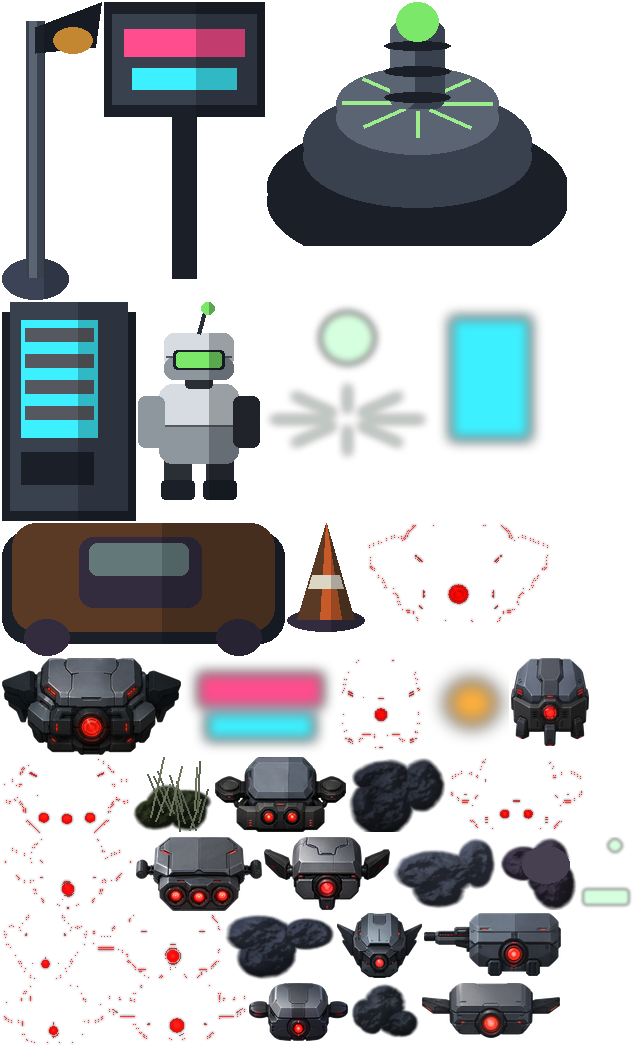
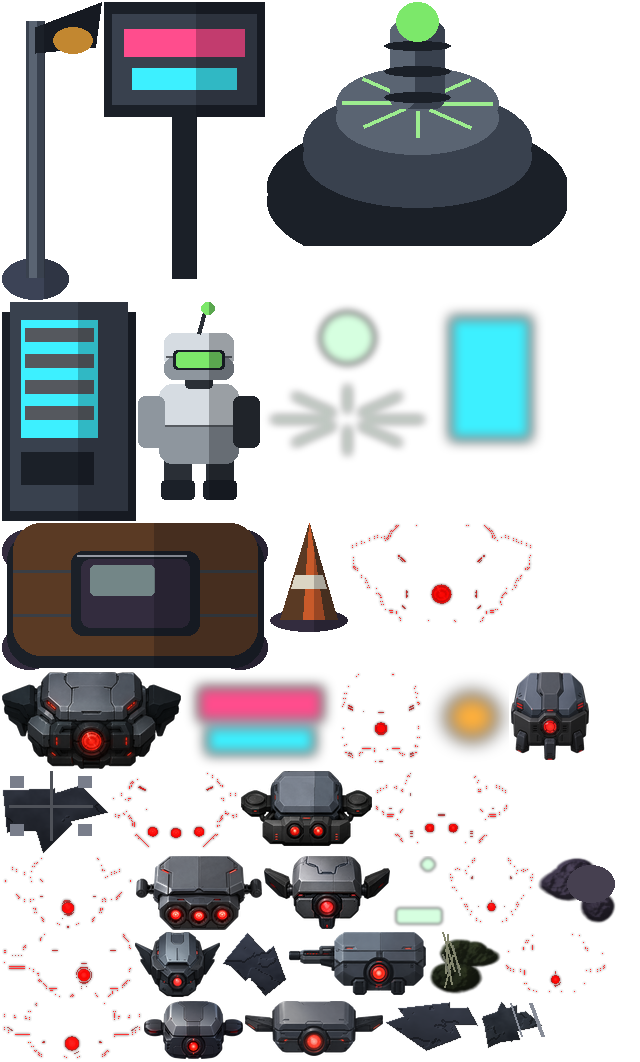
Zone 2 fidelity pass: angular props, sparse weed, panel patchwork
Addresses the "still reads like Miller Field" feedback on the live motel.
The root cause was that every motel prop ran through blob_mask — the same
organic-lobe generator that makes zone 1's ferns and shrubs — so built
debris came out as soft domed mounds.

- Added shard_mask + lit_angular to family.py: fracture-edged silhouettes
  with quantised facet shading and a crisp alpha edge. Rubble, crate and
  scrap now read as broken/built objects (hard corners, panel seams, bent
  fold lines). blob_mask is untouched, so zone 1 is unaffected; tire and
  weed keep the organic path since they are genuinely round/soft.

- Weed dialed back hard: removed the duplicate entry that made it the most
  common skirt prop, desaturated it well off signal-green, fewer/shorter
  blades. It now reads as crack-growth, not lawn.

- Wall cap is now a patchwork, not wallpaper: each panel gets its own
  brightness and its own on/off power state, so only ~40% carry the cyan
  trim. Grid kept (user likes it) but it reads as individual units. Steel
  ramp tuned so walls sit just below floor value without crushing the 65%
  of the frame that is wall.

- Rebuilt the car landmark: wheel wells, body panel seams, a recessed
  cabin with glass depth, roof-rail highlight; scaled down 0.36 -> 0.30.

Brightness verified unchanged from the loved build by measuring source
tile luma (z2 ground 49.1 vs z1 35.9) rather than trusting downscaled
captures — z2 renders brighter than the zone 1 already shipped.

diff --git a/src/game/topdown/TdBiomes.ts b/src/game/topdown/TdBiomes.ts
@@ -190,8 +190,9 @@ const MOTEL: TdBiomeDef = {
   // SKIRT IS GROUND COVER, not objects. dressEdges lays 2-4 of these on every
   // edge tile to bury the straight room boundaries, so anything with a strong
   // recognisable silhouette (a traffic cone) turns the lot into a cone farm.
-  // Weeds and rubble read as accumulated grime and disappear correctly.
-  skirt: ['td-z2-weed', 'td-z2-rubble', 'td-z2-weed', 'td-z2-scrap'],
+  // Skirt buries straight boundaries. Rubble/scrap (hard debris) do that job;
+  // weed appears ONCE here so crack-growth stays sparse and never reads as lawn.
+  skirt: ['td-z2-rubble', 'td-z2-scrap', 'td-z2-rubble', 'td-z2-weed'],
   scatter: ['td-z2-rubble', 'td-z2-tire', 'td-z2-crate', 'td-z2-cone', 'td-z2-weed', 'td-z2-planter'],
   bank: ['td-z2-rubble', 'td-z2-crate'],
   canopy: null,
@@ -199,7 +200,7 @@ const MOTEL: TdBiomeDef = {
     ['td-z2-lm-vending', 'td-z2-lm-vending-emis', 0.34],
     // index 1 is the biome's warm/powered anchor — see TdTerrain.placeLandmarks
     ['td-z2-lm-lamp', 'td-z2-lm-lamp-emis', 0.40],
-    ['td-z2-lm-car', null, 0.36],
+    ['td-z2-lm-car', null, 0.30],
     ['td-z2-lm-sign', 'td-z2-lm-sign-emis', 0.38],
   ],
   flatLandmark: null, // nothing here lies flat on the ground the way a pool does

diff --git a/scripts/art/family.py b/scripts/art/family.py
@@ -259,6 +259,55 @@ def lit_sprite(w: int, h: int, mask: np.ndarray, stops: list[tuple[float, str]],
     return img.filter(ImageFilter.GaussianBlur(0.6))
 
 
+def shard_mask(w: int, h: int, shards: int, seed_scale: float = 1.0) -> np.ndarray:
+    """A MANUFACTURED silhouette: straight fracture edges and hard corners, the
+    opposite of blob_mask's organic lobes. A few overlapping angular polygons —
+    broken slabs, a bent panel — so motel rubble/crate/scrap read as things that
+    were BUILT and then broke, not as mounds that grew. Kept separate from
+    blob_mask so zone 1's organic props are never touched."""
+    im = Image.new("L", (w, h), 0)
+    d = ImageDraw.Draw(im)
+    cx, cy = w / 2, h * 0.60
+    for _ in range(shards):
+        # a jittered convex quad — random centre, random size, hard vertices
+        ox = cx + (RNG.random() - 0.5) * w * 0.36 * seed_scale
+        oy = cy + (RNG.random() - 0.5) * h * 0.30 * seed_scale
+        rx = w * (0.16 + RNG.random() * 0.20)
+        ry = h * (0.14 + RNG.random() * 0.18)
+        ang = RNG.random() * math.pi
+        pts = []
+        # 4 corners, each pushed out to a slightly different radius → irregular
+        # but still straight-edged and convex (reads as a chipped slab)
+        for k in range(4):
+            a = ang + k * (math.pi / 2) + (RNG.random() - 0.5) * 0.5
+            rr = (0.7 + RNG.random() * 0.5)
+            pts.append((ox + math.cos(a) * rx * rr, oy + math.sin(a) * ry * rr))
+        d.polygon(pts, fill=255)
+    m = np.asarray(im, dtype=float) / 255.0
+    # a little grain modulates the FILL for surface texture, but the SILHOUETTE
+    # stays the crisp polygon edge — that hard boundary is the whole point.
+    n = fbm(h, w, base=6, octaves=4)
+    return np.clip(m * (0.78 + 0.4 * n), 0, 1)
+
+
+def lit_angular(w: int, h: int, mask: np.ndarray, stops: list[tuple[float, str]],
+                relief: float, ao_floor: float = 0.5, facets: int = 4) -> Image.Image:
+    """lit_sprite for hard-surface props: the height field is QUANTISED into a
+    few flat facets so light breaks along edges (a built object) instead of
+    rolling across a dome (a rock or bush), and the alpha edge stays crisp."""
+    body = np.clip(mask, 0, 1)
+    detail = fbm(h, w, base=8, octaves=4)
+    height = body * relief + detail * 0.28 * body
+    height = np.floor(height * facets) / max(1, facets - 1)   # faceting
+    lam = shade(height, ambient=0.5, strength=0.6)
+    grad = np.linspace(1.06, ao_floor, h)[:, None]
+    rgb = ramp(np.clip(detail * 0.4 + body * 0.6, 0, 1), stops) * (lam * grad)[:, :, None]
+    # hard alpha: 1px feather only, so corners survive at the ~0.26 render scale
+    a = np.clip((mask - 0.5) * 8.0, 0, 1)
+    img = Image.fromarray(np.dstack([np.clip(rgb, 0, 255), a * 255]).astype(np.uint8), "RGBA")
+    return img.filter(ImageFilter.GaussianBlur(0.35))
+
+
 def foliage_family() -> None:
     print("foliage / props")
     specs = [
@@ -694,27 +743,42 @@ def motel_tiles() -> None:
     # unarticulated grey rectangle reads as an unfinished asset.
     # ---------------------------------------------------------------------
     wb = fbm(S, S, base=10, octaves=4)
-    wh = np.clip(wb * 0.42 + 0.34, 0, 1)
-    wlam = shade(wh, ambient=0.60, strength=0.34)[:, :, None]
+    wh = np.clip(wb * 0.42 + 0.36, 0, 1)
+    wlam = shade(wh, ambient=0.62, strength=0.34)[:, :, None]
+    # The wall should sit a touch below the floor in value so the lit floor reads
+    # as the playable space — but only a touch. This arena is 65% wall, so
+    # over-darkening the cap crushes most of the frame to black. Keep the steel
+    # readable; the per-panel tone below supplies the depth variation instead.
     cap = ramp(wh, [(0.0, "steel_dk"), (0.5, "steel"), (1.0, "steel_lt")]) * wlam
 
     idx = np.arange(S)
     PITCH = 44                       # panel width in texels — reads as equipment
                                      # at the ~272px ground cell, not as a grid
+    px = idx // PITCH                # which panel a texel belongs to
+    npan = int(px.max()) + 1
+
+    # PER-PANEL TONE + POWER. A uniform grid reads as wallpaper; real equipment
+    # is a patchwork — panels at different ages, some powered, some dead. Each
+    # panel gets its own brightness and its own on/off, so the eye reads a wall
+    # of individual units instead of one repeating texture.
+    tone = (RNG.random((npan, npan)) * 0.34 + 0.82)     # 0.82..1.16 per panel
+    tone_f = tone[px[:, None], px[None, :]]
+    cap = cap * tone_f[:, :, None]
+    powered = (RNG.random((npan, npan)) < 0.42)         # only ~40% lit
+    pw_f = powered[px[:, None], px[None, :]]
+
     seam = ((idx % PITCH) < 2)
     seam_f = seam[None, :] | seam[:, None]
     cap = cap * (1 - seam_f[:, :, None] * 0.55)
-    # neon trim: a thin bright line just inside every seam
+    # neon trim: only on POWERED panels, so the cyan is interrupted, not a lattice
     trim = (((idx % PITCH) >= 3) & ((idx % PITCH) < 4))
-    trim_f = trim[None, :] | trim[:, None]
-    # Trim is a HINT of powered edge, not a light source. At 0.85 it dominated
-    # the frame and the arena read as a lattice overlay rather than a place.
-    cap = cap + np.array(P["neon_cyan_dim"], dtype=float) * trim_f[:, :, None] * 0.30
+    trim_f = (trim[None, :] | trim[:, None]) & pw_f
+    cap = cap + np.array(P["neon_cyan_dim"], dtype=float) * trim_f[:, :, None] * 0.32
     # bolt rows: a dot at each panel corner region
     bolt = (((idx % PITCH) > 6) & ((idx % PITCH) < 9))
     bolt_f = bolt[None, :] & bolt[:, None]
-    cap = cap + np.array(P["steel_lt"], dtype=float) * bolt_f[:, :, None] * 0.55
-    save_tile(cap, "td-z2-wall-top")
+    cap = cap + np.array(P["steel_lt"], dtype=float) * bolt_f[:, :, None] * 0.45
+    save_tile(np.clip(cap, 0, 255), "td-z2-wall-top")
 
     # Vertical face: the panel seen edge-on. Louvred vents run horizontally —
     # regular, hard-edged, and unmistakably manufactured, which is exactly the
@@ -743,26 +807,45 @@ def motel_tiles() -> None:
 def motel_props() -> None:
     print("motel props")
     P.update(PM)
+    # kind: 'shard' = built/broken (hard corners), 'blob' = organic/round
     specs = [
-        ("td-z2-rubble",  120,  88, 5, [(0.0, "block"), (0.55, "kerb"), (1.0, "kerb_lt")], 0.9),
-        ("td-z2-tire",    116,  96, 4, [(0.0, "tar_dk"), (0.6, "tar"), (1.0, "tar_lt")], 1.05),
-        ("td-z2-crate",   130, 108, 4, [(0.0, "steel_dk"), (0.55, "steel"), (1.0, "steel_lt")], 1.0),
-        ("td-z2-scrap",    96,  72, 5, [(0.0, "hull_dk"), (0.6, "hull"), (1.0, "hull_lt")], 0.85),
-        ("td-z2-weed",     98,  90, 5, [(0.0, "weed"), (0.6, "weed"), (1.0, "weed_lt")], 0.5),
-        ("td-z2-planter", 140,  96, 4, [(0.0, "kerb"), (0.5, "kerb_lt"), (1.0, "steel_lt")], 0.95),
+        ("td-z2-rubble",  120,  88, "shard", 5, [(0.0, "block"), (0.55, "kerb"), (1.0, "kerb_lt")], 0.9),
+        ("td-z2-crate",   130, 108, "shard", 3, [(0.0, "steel_dk"), (0.55, "steel"), (1.0, "steel_lt")], 1.0),
+        ("td-z2-scrap",    96,  72, "shard", 4, [(0.0, "hull_dk"), (0.6, "hull"), (1.0, "hull_lt")], 0.85),
+        ("td-z2-tire",    116,  96, "blob",  4, [(0.0, "tar_dk"), (0.6, "tar"), (1.0, "tar_lt")], 1.05),
+        ("td-z2-weed",     98,  90, "blob",  4, [(0.0, "weed"), (0.6, "weed"), (1.0, "weed_lt")], 0.42),
+        ("td-z2-planter", 140,  96, "shard", 3, [(0.0, "kerb"), (0.5, "kerb_lt"), (1.0, "steel_lt")], 0.95),
     ]
-    for name, w, h, lobes, stops, relief in specs:
-        m = blob_mask(w, h, lobes)
-        img = lit_sprite(w, h, m, stops, relief)
+    for name, w, h, kind, n, stops, relief in specs:
+        if kind == "shard":
+            m = shard_mask(w, h, n)
+            img = lit_angular(w, h, m, stops, relief)
+        else:
+            m = blob_mask(w, h, n)
+            img = lit_sprite(w, h, m, stops, relief)
         d = ImageDraw.Draw(img)
+        if name == "td-z2-crate":
+            # a lid seam + corner brackets read the box as manufactured
+            d.line([(w * 0.5, h * 0.18), (w * 0.5, h * 0.82)], fill=(*P["steel_dk"], 200), width=3)
+            d.line([(w * 0.18, h * 0.5), (w * 0.82, h * 0.5)], fill=(*P["steel_dk"], 200), width=3)
+            for cx, cy in [(0.24, 0.28), (0.76, 0.28), (0.24, 0.72), (0.76, 0.72)]:
+                d.rectangle((w * (cx - 0.05), h * (cy - 0.05), w * (cx + 0.05), h * (cy + 0.05)),
+                            fill=(*P["steel_lt"], 190))
+        if name == "td-z2-scrap":
+            # bent-sheet fold lines, straight and bright on the catch edge
+            for _ in range(3):
+                x0 = w * (0.2 + RNG.random() * 0.55)
+                d.line([(x0, h * 0.3), (x0 + w * 0.12, h * 0.75)], fill=(*P["steel_lt"], 170), width=2)
         if name == "td-z2-weed":
-            for _ in range(14):
-                bx = w * (0.2 + RNG.random() * 0.6)
-                by = h * (0.66 + RNG.random() * 0.28)
-                ln = h * (0.3 + RNG.random() * 0.36)
-                lean = (RNG.random() - 0.5) * w * 0.36
-                col = P["weed_lt"] if RNG.random() < 0.45 else P["weed"]
-                d.line([(bx, by), (bx + lean, by - ln)], fill=(*col, 205), width=2)
+            # DESATURATED and SPARSE — grass in a crack, not a lawn. Fewer, shorter
+            # blades and a duller green so it never competes with signal-green.
+            for _ in range(7):
+                bx = w * (0.3 + RNG.random() * 0.4)
+                by = h * (0.68 + RNG.random() * 0.24)
+                ln = h * (0.22 + RNG.random() * 0.24)
+                lean = (RNG.random() - 0.5) * w * 0.26
+                col = (0x5A, 0x5E, 0x3E) if RNG.random() < 0.4 else (0x3E, 0x44, 0x30)
+                d.line([(bx, by), (bx + lean, by - ln)], fill=(*col, 190), width=2)
         if name == "td-z2-tire":
             d.ellipse((w * 0.3, h * 0.34, w * 0.7, h * 0.72), fill=(*P["tar_dk"], 230))
         save_sprite(img, name)
@@ -822,21 +905,31 @@ def motel_landmarks() -> None:
         dd.rectangle((w * 0.23, h * 0.27, w * 0.77, h * 0.36), fill=(*P["neon_cyan"], 255)),
     )), "td-z2-lm-sign-emis")
 
-    # derelict car — a big silhouette that breaks sightlines, seen from above
+    # derelict car — seen from above, three-quarter. A big sightline-breaker,
+    # so it earns real structure: body panels, a recessed cabin with glass
+    # depth, wheel wells sitting proud of the body, a rusted hood seam.
     w, h = 320, 200
     im = Image.new("RGBA", (w, h), (0, 0, 0, 0))
     d = ImageDraw.Draw(im)
-    d.rounded_rectangle((w * 0.06, h * 0.30, w * 0.94, h * 0.86), radius=26,
-                        fill=(*P["hull_dk"], 255))
-    d.rounded_rectangle((w * 0.09, h * 0.26, w * 0.91, h * 0.80), radius=24,
-                        fill=(*P["rust"], 255))
-    d.rounded_rectangle((w * 0.30, h * 0.33, w * 0.68, h * 0.68), radius=14,
-                        fill=(*P["tar_dk"], 255))          # roof / cabin
-    d.rounded_rectangle((w * 0.33, h * 0.36, w * 0.64, h * 0.52), radius=8,
-                        fill=(*P["water_lt"], 190))        # windscreen glint
-    for cx in (0.20, 0.80):                                 # wheels
-        d.ellipse((w * (cx - 0.07), h * 0.74, w * (cx + 0.07), h * 0.92),
-                  fill=(*P["tar_dk"], 255))
+    # wheels FIRST, so the body sits over them and they read as tucked under
+    for cx in (0.17, 0.83):
+        for cy in (0.30, 0.78):
+            d.ellipse((w * (cx - 0.085), h * (cy - 0.11), w * (cx + 0.085), h * (cy + 0.11)),
+                      fill=(*P["tar_dk"], 255))
+            d.ellipse((w * (cx - 0.05), h * (cy - 0.06), w * (cx + 0.05), h * (cy + 0.06)),
+                      fill=(*P["steel_dk"], 255))
+    # body: two stacked rounded slabs for a shaded lower edge
+    d.rounded_rectangle((w * 0.10, h * 0.20, w * 0.90, h * 0.88), radius=30, fill=(*P["hull_dk"], 255))
+    d.rounded_rectangle((w * 0.12, h * 0.16, w * 0.88, h * 0.82), radius=28, fill=(*P["rust"], 255))
+    # hood + trunk panel seams
+    d.line([(w * 0.12, h * 0.40), (w * 0.88, h * 0.40)], fill=(*P["hull_dk"], 220), width=3)
+    d.line([(w * 0.12, h * 0.62), (w * 0.88, h * 0.62)], fill=(*P["hull_dk"], 220), width=3)
+    # cabin: recessed dark well, then glass with a cool glint inset
+    d.rounded_rectangle((w * 0.30, h * 0.30, w * 0.70, h * 0.72), radius=12, fill=(*P["hull_dk"], 255))
+    d.rounded_rectangle((w * 0.33, h * 0.34, w * 0.67, h * 0.68), radius=9, fill=(*P["tar_dk"], 255))
+    d.rounded_rectangle((w * 0.36, h * 0.37, w * 0.56, h * 0.52), radius=5, fill=(*P["water_lt"], 170))
+    # roof rail highlight catches the upper-left light
+    d.line([(w * 0.32, h * 0.32), (w * 0.66, h * 0.32)], fill=(*P["steel_lt"], 150), width=2)
     save_sprite(side_shade(im), "td-z2-lm-car")
 
     # sodium lamp post — the light SOURCE the whole biome is lit by